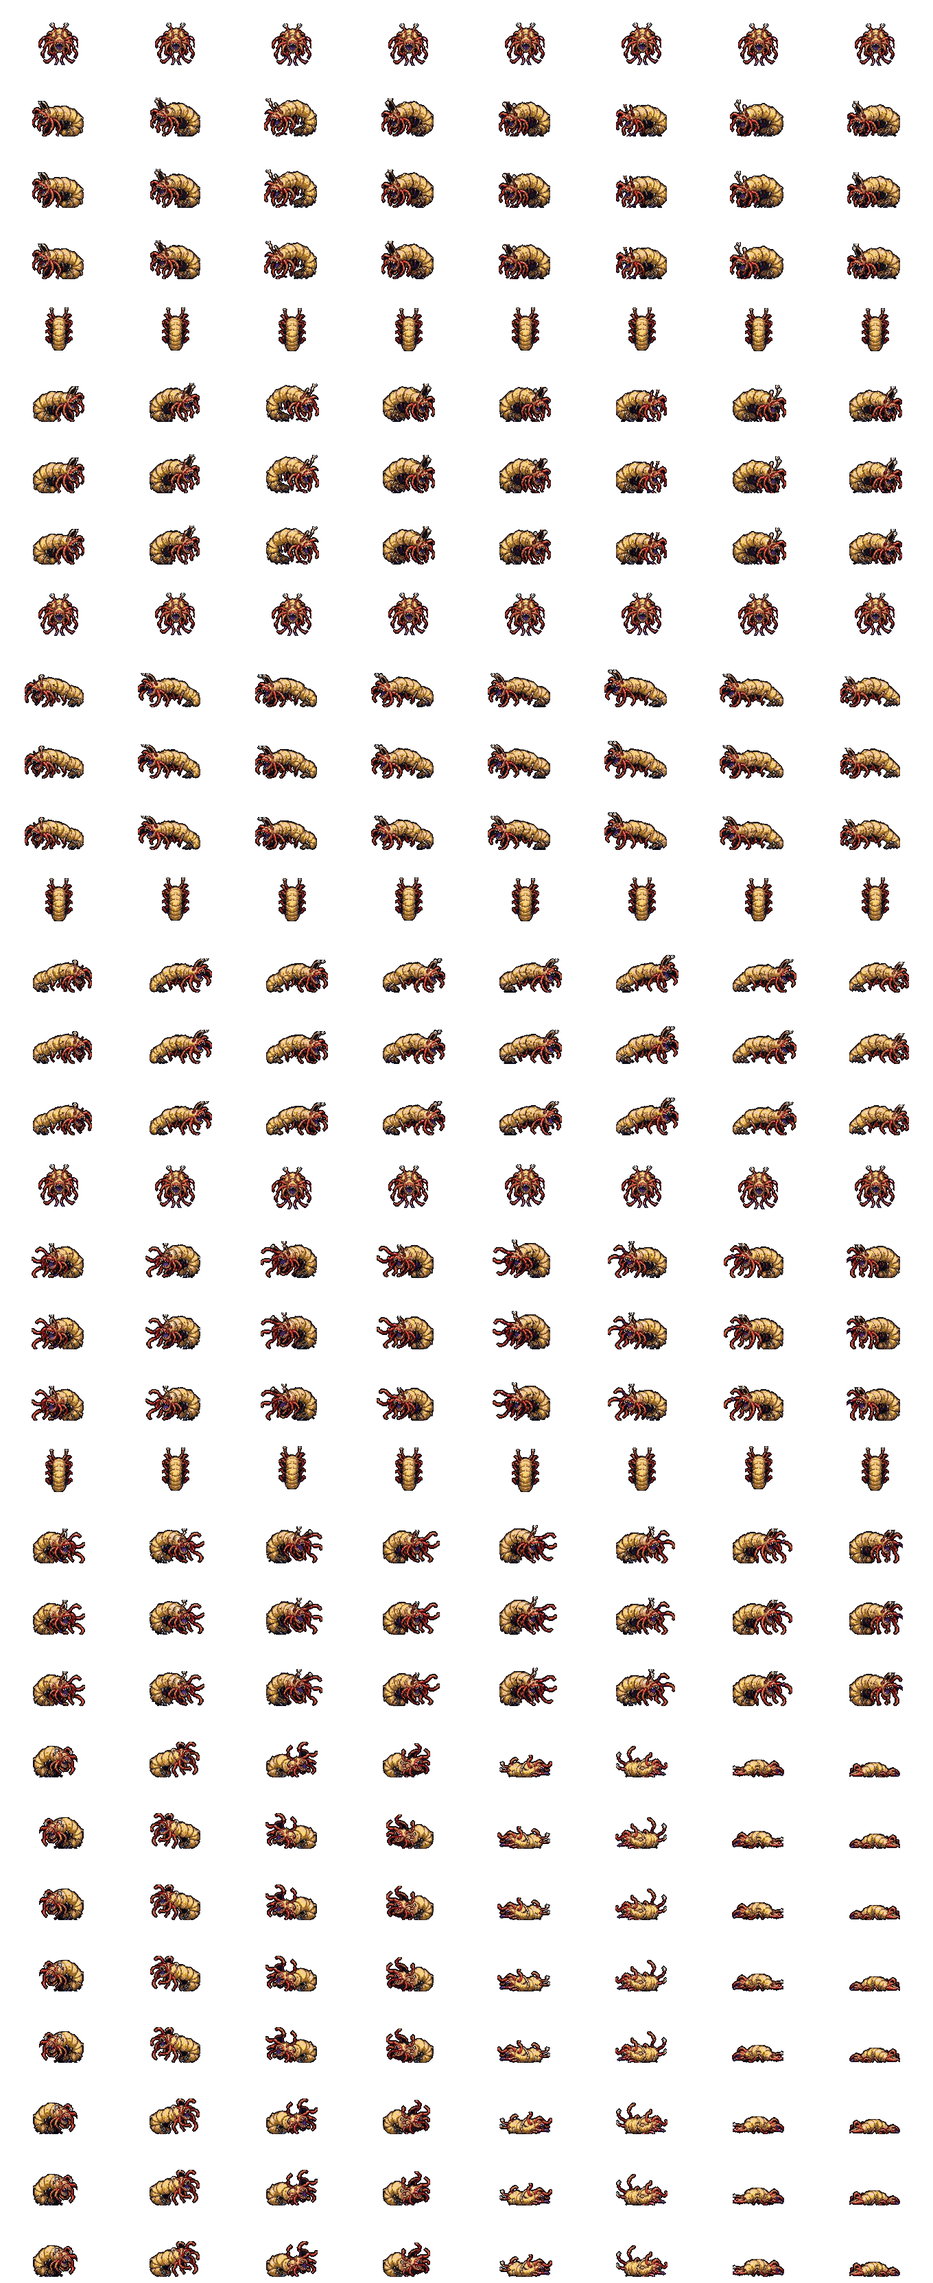
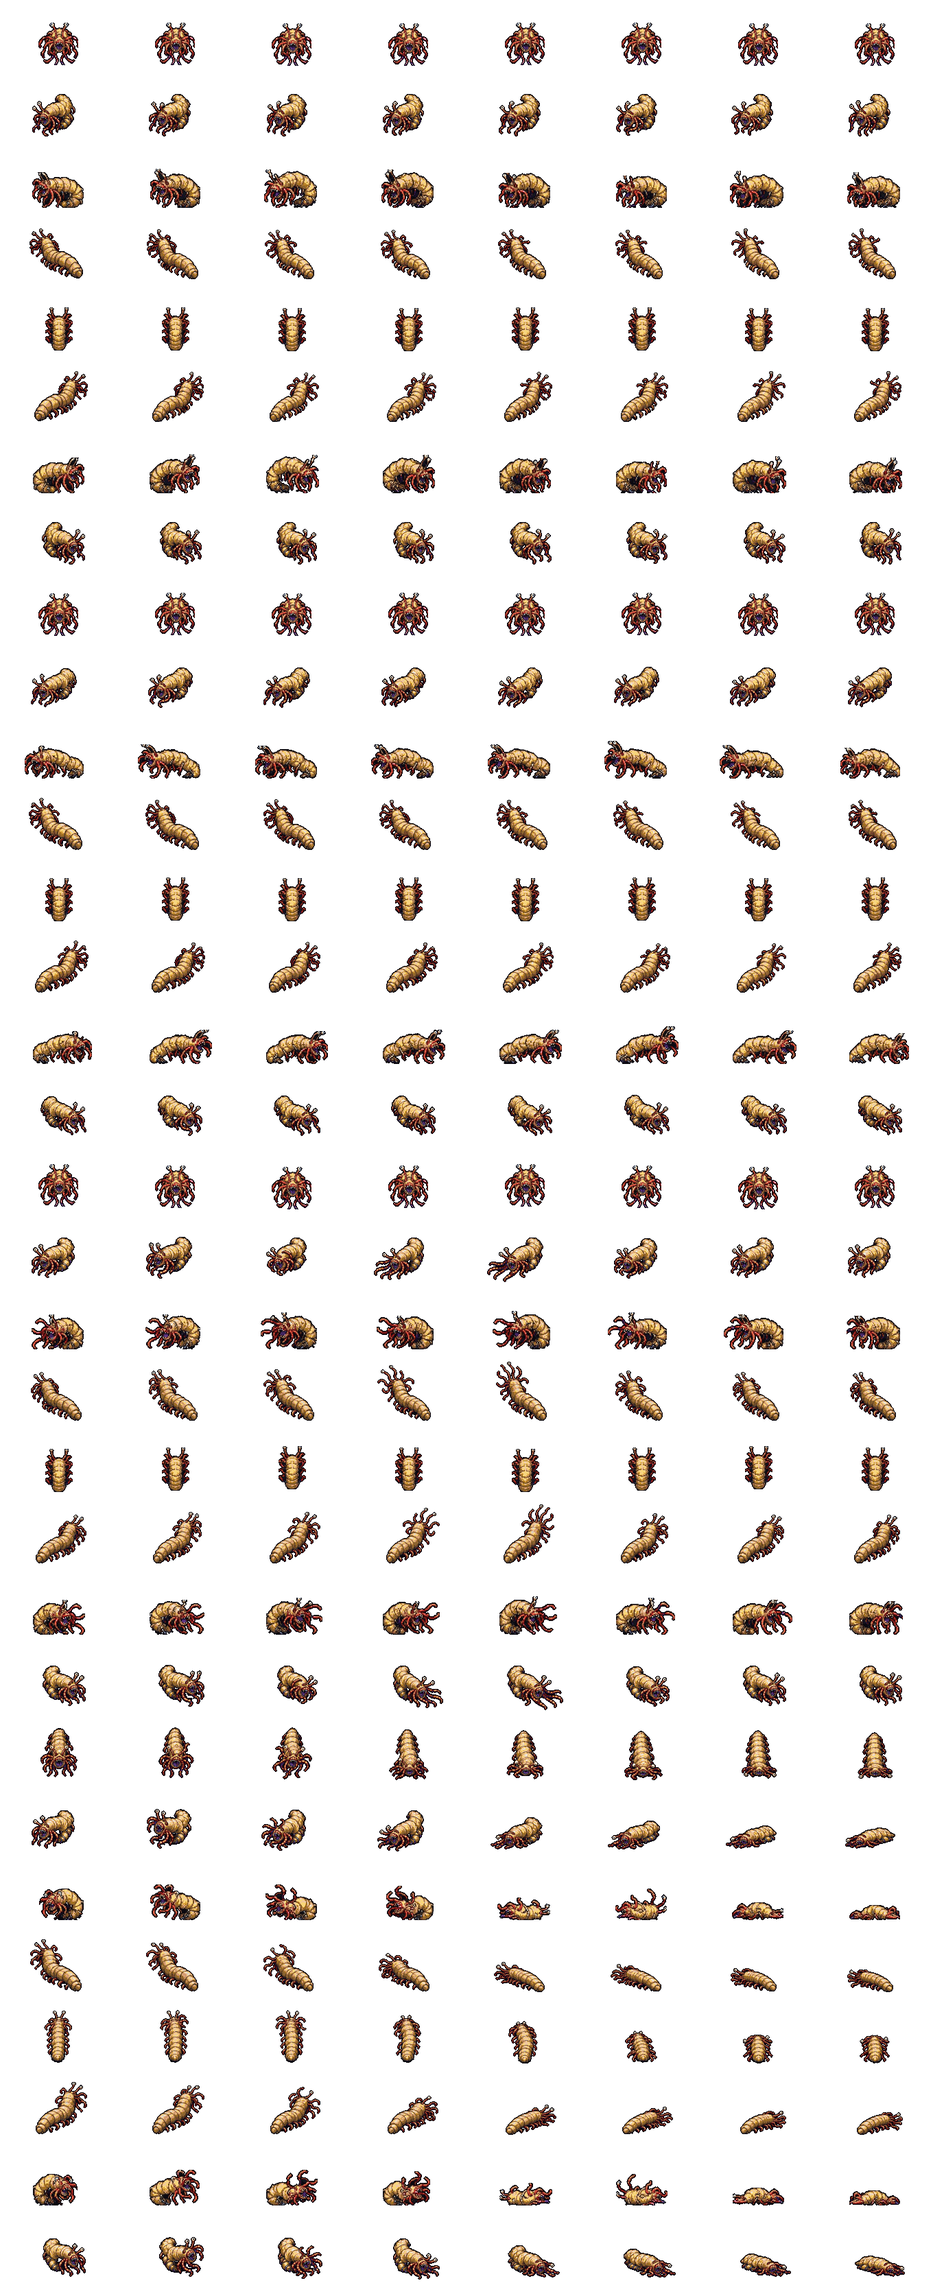
The crawler in all eight facings: the art desk's ART-44 cut onto crawler_p2 (SE/SW and NE/NW every row, S and N their own fall)
ART-44's six pages (sorted out of Fresh to deep16/_src/crawler/ART-44/) cut by their own row and number labels in
tools/crawler-sheet.py: H1 SE Idle, Crawl, Tentacles, Fall; H2 NE the same; H3 S Fall; H5 N Fall. Idle -> idle, Crawl ->
walk, Tentacles -> attack, Fall -> hurt; SW and NW mirrored by the 10-14 facings ruling. E and W keep the side rows and S and
N the panel's stills for idle, walk and attack, byte for byte. SE and NE at one scale (3.3 page px a game px, page 2s by
their standing frame), S 4.3 and N 4.5 to the stills they turn from; toned body and tentacles apart to the side rows' snapped
colours; each frame's body centroid on the anchor column, its foot as the page draws it. The show plays every row twice.

Griz, 2026-10-21, to the lanes desk: "Spin a single monster cutter instance up (choose your own from Fresh!) and have one
going after another finishes until we approach session limit (90%)".

diff --git a/deep16/data/sprites.js b/deep16/data/sprites.js
@@ -2500,7 +2500,7 @@
 }
 },
 "crawler_p2": {
-"image": "art/crawler_p2.png?v=1dfc6cb369",
+"image": "art/crawler_p2.png?v=e25d2741fb",
 "fw": 170,
 "fh": 104,
 "ax": 85,
@@ -2544,7 +2544,7 @@
 "fps": 8
 }
 },
-"source": "generated by Griz with Grok (2026-09-27), cut and snapped by tools/crawler-sheet.py (the top view stands for N)"
+"source": "generated by Griz with Grok (2026-09-27; the side rows, and the panel's front and top views for S and N) and the art desk (2026-10-17, ART-44: the SE and NE views of every row, the front and back of the fall), cut and snapped by tools/crawler-sheet.py"
 },
 "crewman_p1": {
 "image": "art/crewman_p1.png?v=9336a5853e",

diff --git a/deep16/index.html b/deep16/index.html
@@ -77,7 +77,7 @@
 <script src="js/art.js?v=e1ce4cf012"></script>
 <script src="data/cavern.js?v=647c1a184a"></script>
 <script src="data/maps.js?v=971b4fe9e6"></script>
-<script src="data/sprites.js?v=46f1ff8c13"></script>
+<script src="data/sprites.js?v=7669d1919d"></script>
 <script src="js/sprites.js?v=132505c283"></script>
 <script src="js/save.js?v=1191d6f29a"></script>
 <script src="data/spells.js?v=b819b6e987"></script>

diff --git a/tools/crawler-sheet.py b/tools/crawler-sheet.py
@@ -1,26 +1,48 @@
 """DEEP16 pipeline 2 (generated art): Griz's generated carrion-crawler sheet -> a palette sprite sheet.
 
-    python tools/crawler-sheet.py
+    python tools/crawler-sheet.py            # deep16/art/crawler_p2.png + .json
+    python tools/crawler-sheet.py check      # dev/visions/crawler/: each ART-44 page's cut (a colour a frame), every facing of every row, a lineup
 
 Source: deep16/_src/crawler_grok_1.webp (Griz, 2026-09-27, made with Grok): one page in one hand -- a portrait, three
 views (side, front, top), and rows seen from the side facing right: idle 8, crawl 8, tentacles 8, bite 5, hurt 4, death 8.
 Its colours stand as drawn (pale yellow body, red tentacles), snapped to the palette; no regrade (the chuul's was).
-Facings: the front view takes S; the top view takes N (Griz, 09-27: "build it with the top view for N": the sheet has no
+Facings (until ART-44, below): the front view takes S; the top view takes N (Griz, 09-27: "build it with the top view for N": the sheet has no
 rear view); the side rows take the other six (mirrored for the west side). The death row plays as `hurt` (the engine
 plays it once when a creature goes down), as the chuul's does. The bite and the flinch rows are cut but not yet played.
 Boxes from a component pass over the sheet (warm pixels against the navy ground).
+ART-44 (10-21): the art desk drew the views the sheet lacked (RULED 10-14, five drawn views: S, SE, E, NE, N; SE mirrors to SW, E
+to W, NE to NW), six pages in deep16/_src/crawler/ART-44/ (sorted out of Fresh by its ART-44-sort.py; the desk's papers in
+_src/art-desk/received-2026-10-21-ART-44-crawler-FINAL-REPAIRED/), each cut by its own row and number labels (tools/sheetrows.py):
+    H1P1  ART-44_HEAD-1_PAGE-1.png  SE: Idle 8, Crawl 8
+    H1P2  ART-44_HEAD-1_PAGE-2.png  SE: Tentacles 8, Fall 8
+    H2P1  ART-44_HEAD-2_PAGE-1.png  NE: Idle 8, Crawl 8
+    H2P2  ART-44_HEAD-2_PAGE-2.png  NE: Tentacles 8, Fall 8
+    H3P1  ART-44_HEAD-3_PAGE-1.png  S:  Fall 8
+    H5P1  ART-44_HEAD-5_PAGE-1.png  N:  Fall 8
+Idle plays as `idle`, Crawl as `walk`, Tentacles as `attack`, Fall as `hurt`. SE and NE draw every row from their own view (SW and NW
+mirrored); S and N keep the panel's stills for idle, walk and attack and fall in their own view; E and W keep the side rows. Each page is
+scaled to the creature as committed (K44) and toned to the side rows' colours, body and tentacles apart (TONE44); each frame stands with its
+body's middle (the gold segments' centroid) on the anchor column and its row's ground from the page (each frame's foot as drawn against
+its row's first).
 """
-import os, json
+import os, sys, json, subprocess
 import numpy as np
-from PIL import Image
+from PIL import Image, ImageDraw
 from scipy import ndimage
 
 ROOT = os.path.dirname(os.path.dirname(os.path.abspath(__file__)))
 import importlib.util
-spec = importlib.util.spec_from_file_location('pix', os.path.join(ROOT, 'tools', 'pixelate.py'))
-pix = importlib.util.module_from_spec(spec); spec.loader.exec_module(pix)
+def _load(name, path):
+    spec = importlib.util.spec_from_file_location(name, path); mod = importlib.util.module_from_spec(spec); spec.loader.exec_module(mod)
+    return mod
+pix = _load('pix', os.path.join(ROOT, 'tools', 'pixelate.py'))
+SR = _load('sheetrows', os.path.join(ROOT, 'tools', 'sheetrows.py'))
 
-SHEET = np.asarray(Image.open(os.path.join(ROOT, 'deep16', '_src', 'crawler_grok_1.webp')).convert('RGB')).astype(np.int32)
+SRC = os.path.join(ROOT, 'deep16', '_src')                 # the sheets live in the main checkout (_src is not in git): a worktree reads them there
+if not os.path.exists(os.path.join(SRC, 'crawler_grok_1.webp')):
+    _common = subprocess.run(['git', '-C', ROOT, 'rev-parse', '--git-common-dir'], capture_output=True, text=True).stdout.strip()
+    SRC = os.path.join(os.path.dirname(os.path.abspath(os.path.join(ROOT, _common))), 'deep16', '_src')
+SHEET = np.asarray(Image.open(os.path.join(SRC, 'crawler_grok_1.webp')).convert('RGB')).astype(np.int32)
 BG = np.array([12, 20, 31])
 FW, FH, AX, AY = 170, 104, 85, 94
 SIDE_H = 50                  # Large, and low: the side rows stand ~50 px (the humans are 56 tall; it is 3-4 ft high, 9 long)
@@ -34,6 +56,46 @@ ATTACK = [(43, 573, 157, 647), (200, 576, 319, 648), (354, 569, 476, 646), (516,
           (836, 572, 966, 651), (995, 577, 1126, 651), (1153, 580, 1269, 650)]
 DEATH = [(55, 971, 149, 1037), (220, 964, 329, 1042), (383, 964, 494, 1042), (553, 968, 656, 1042), (710, 993, 823, 1042),
          (863, 974, 976, 1042), (1014, 1003, 1128, 1040), (1167, 1007, 1278, 1039)]
+
+# ART-44 (10-21): the art desk's six pages. Per page: text boxes (each row's name above it, and each number strip the width of the page: a
+# number lies wholly inside one, a tentacle tip that dips into it does not), and the rows -- (the page's row name, band x0 y0 x1 y1, its
+# number strip y0 y1, the numbers). Read off the pages; H1P2's Tentacles strip starts in the numbers' lower half (a tentacle's highlight
+# above them read as a ninth label).
+ART44 = os.path.join(SRC, 'crawler', 'ART-44')
+N8 = [str(i + 1) for i in range(8)]
+W1, W2 = 1774, 1983                                      # the pages' widths (H1P1, H2P1, H2P2; H1P2, H3P1, H5P1)
+PAGES = {
+    'H1P1': dict(file='ART-44_HEAD-1_PAGE-1.png', text=[(20, 140, 170, 178), (0, 398, W1, 428), (20, 482, 170, 518), (0, 726, W1, 756)],
+                 rows=[('idle', (0, 178, W1, 428), (400, 426), N8), ('crawl', (0, 518, W1, 756), (728, 754), N8)]),
+    'H1P2': dict(file='ART-44_HEAD-1_PAGE-2.png', text=[(20, 112, 250, 150), (0, 378, W2, 408), (20, 446, 120, 484), (0, 709, W2, 741)],
+                 rows=[('tentacles', (0, 150, W2, 408), (392, 405), N8), ('fall', (0, 484, W2, 741), (711, 739), N8)]),
+    'H2P1': dict(file='ART-44_HEAD-2_PAGE-1.png', text=[(20, 140, 112, 176), (0, 398, W1, 428), (20, 482, 140, 516), (0, 769, W1, 800)],
+                 rows=[('idle', (0, 130, W1, 428), (400, 426), N8), ('crawl', (0, 516, W1, 800), (771, 797), N8)]),
+    'H2P2': dict(file='ART-44_HEAD-2_PAGE-2.png', text=[(20, 136, 202, 173), (0, 409, W1, 440), (20, 480, 104, 514), (0, 771, W1, 802)],
+                 rows=[('tentacles', (0, 112, W1, 440), (411, 438), N8), ('fall', (0, 514, W1, 802), (773, 800), N8)]),
+    'H3P1': dict(file='ART-44_HEAD-3_PAGE-1.png', text=[(20, 186, 110, 222), (0, 567, W2, 603)],
+                 rows=[('fall', (0, 222, W2, 603), (569, 601), N8)]),
+    'H5P1': dict(file='ART-44_HEAD-5_PAGE-1.png', text=[(20, 176, 116, 214), (0, 585, W2, 623)],
+                 rows=[('fall', (0, 214, W2, 623), (587, 621), N8)]),
+}
+ENGINE = {'idle': 'idle', 'crawl': 'walk', 'tentacles': 'attack', 'fall': 'hurt'}     # the page's row -> the sheet's
+HEADS = {'SE': ('H1P1', 'H1P2'), 'NE': ('H2P1', 'H2P2'), 'S': ('H3P1',), 'N': ('H5P1',)}
+STILL = ('idle', 'crawl')                    # rows that stand still on their ground: its foot the row's median (the page's jitter is a
+                                             # pixel); the others (a lash that reaches down, a fall) from their first frame's foot
+# the scale, page px a game px: K44 below (set by eye on the lineup after the measures; see the ENGINE-RETURN of 10-21 for the table)
+K44 = {'H1P1': 3.3, 'H2P1': 3.3, 'H3P1': 4.3, 'H5P1': 4.5}
+K44.update({'H1P2': K44['H1P1'] * 1.04, 'H2P2': K44['H2P1'] * 1.01})
+# the colour, page by page and material by material, to the side rows' (his look's): the art desk drew a brighter, stronger crawler, its
+# tentacles most of all, and its pale gold snapped to the palette's peach-tan ramp where the side rows' lands on the gold one. The gold body
+# (hue 15-75) and the red tentacles (hue 330-15) apart; the maw's purple, the eyes, the teeth and the outline are left as drawn. The hue is
+# turned to the side rows' median (TONE_AT, from the grok sheet's rows and panel; TONE_HUE, each page's, both of the pixels over 0.2
+# saturation). The saturation and value factors (TONE44: body s, body v, red s, red v) are fitted on the snapped colours: each page's frames
+# cut, toned and snapped on a grid of factors, and the one whose colours' shares come nearest the side rows' (E in every row) kept -- the
+# medians' own factors (body s 0.77-0.86, v 0.78-0.90) snapped the body to the peach ramp (10-21; the trials in the ENGINE-RETURN of 10-21f).
+TONE_AT = {'body': 35.6, 'red': 358.3}
+TONE_HUE = {'H1P1': (35.5, 355.5), 'H1P2': (34.2, 355.9), 'H2P1': (35.5, 355.2), 'H2P2': (33.7, 352.3), 'H3P1': (35.1, 354.3), 'H5P1': (33.6, 354.5)}
+TONE44 = {'H1P1': (0.90, 1.00, 0.90, 0.70), 'H1P2': (0.85, 0.95, 0.80, 0.70), 'H2P1': (0.85, 0.95, 1.00, 0.65),
+          'H2P2': (0.80, 0.90, 0.80, 0.65), 'H3P1': (0.85, 0.95, 0.90, 0.60), 'H5P1': (0.80, 0.90, 0.80, 0.65)}
 
 
 def cut(box, pad=5):
@@ -73,9 +135,101 @@ def left_x(a):
     return float(np.where(a[..., 3].any(axis=0))[0][0])
 
 
-def main():
+def hsv(rgb):
+    mx, mn = rgb.max(-1), rgb.min(-1)
+    d = np.maximum(mx - mn, 1e-6)
+    r, g, b = rgb[..., 0], rgb[..., 1], rgb[..., 2]
+    h = np.where(mx == r, ((g - b) / d) % 6, np.where(mx == g, (b - r) / d + 2, (r - g) / d + 4)) * 60
+    s = np.where(mx > 0, (mx - mn) / np.maximum(mx, 1e-6), 0)
+    return h, s, mx
+
+
+def toned(im, L):
+    """an RGBA cut in HSV, material by material: the gold body and the red tentacles each turned to the side rows' hue and scaled (TONE44)"""
+    a = np.asarray(im).astype(float)
+    h, s, v = hsv(a[..., :3] / 255.0)
+    bs, bv, rs, rv = TONE44[L]
+    sels = (('body', (s > 0.2) & (h >= 15) & (h < 75), TONE_HUE[L][0], bs, bv), ('red', (s > 0.2) & ((h >= 330) | (h < 15)), TONE_HUE[L][1], rs, rv))
+    for mat, sel, ph, fs, fv in sels:
+        dh = (TONE_AT[mat] - ph + 180) % 360 - 180
+        h = np.where(sel, (h + dh) % 360, h)
+        s = np.where(sel, np.clip(s * fs, 0, 1), s)
+        v = np.where(sel, np.clip(v * fv, 0, 1), v)
+    cc = v * s
+    x = cc * (1 - np.abs((h / 60) % 2 - 1))
+    sec = (h // 60).astype(int) % 6
+    z = np.zeros_like(cc)
+    out = np.select([sec[..., None] == k for k in range(6)],
+                    [np.stack(p, -1) for p in ((cc, x, z), (x, cc, z), (z, cc, x), (z, x, cc), (x, z, cc), (cc, z, x))]) + (v - cc)[..., None]
+    a[..., :3] = np.clip(out * 255, 0, 255)
+    return Image.fromarray(a.round().astype(np.uint8), 'RGBA')
+
+
+def body_x(im):
+    """the gold segments' centroid column in a page cut (the tentacles lash and the eye stalks bob; the body holds)"""
+    a = np.asarray(im).astype(float)
+    h, s, v = hsv(a[..., :3] / 255.0)
+    m = (a[..., 3] > 0) & (s > 0.2) & (h >= 15) & (h < 75)
+    return float(np.where(m)[1].mean())
+
+
+def fit(img, scale):
+    """one scale: premultiplied box down, a 1-px margin for the outline, snapped to the palette."""
+    w, h = img.size
+    img = img.convert('RGBa').resize((max(1, round(w / scale)), max(1, round(h / scale))), Image.BOX).convert('RGBA')
+    pad = Image.new('RGBA', (img.width + 2, img.height + 2), (0, 0, 0, 0))
+    pad.paste(img, (1, 1))
+    return pix.pixelate(pad, 1, do_lift=False)
+
+
+CLIPPED = []
+
+
+def place44(a, x_ref, tag='', up=0):
+    """a fitted cut onto the frame: x_ref on AX, its lowest opaque row (the outline's) on AY -- or `up` px above it (below, if negative)"""
+    out = np.zeros((FH, FW, 4), dtype=np.uint8)
+    rr = np.where(a[..., 3].any(axis=1))[0]; cc = np.where(a[..., 3].any(axis=0))[0]
+    ox, oy = int(round(AX - x_ref)), AY - rr[-1] - up
+    if ox + cc[0] < 0 or ox + cc[-1] >= FW or oy + rr[0] < 0 or oy + rr[-1] >= FH:
+        CLIPPED.append((tag, ox + cc[0], ox + cc[-1], oy + rr[0], oy + rr[-1]))
+    h, w = a.shape[:2]
+    y0, x0 = max(0, oy), max(0, ox)
+    y1, x1 = min(FH, oy + h), min(FW, ox + w)
+    out[y0:y1, x0:x1] = a[y0 - oy:y1 - oy, x0 - ox:x1 - ox]
+    return out
+
+
+def mirror44(seq):
+    """west of the drawn east: a flip, then a pixel back so the anchor column stays put (FW is even)"""
+    return [np.roll(fr[:, ::-1], 1, axis=1).copy() for fr in seq]
+
+
+def heads(check=False):
+    """ART-44's pages -> {view: {sheet row: [frame, ...]}}: each frame at its page's scale and tone, its body's centroid on AX, its foot
+    off the row's ground by what the page draws (`STILL`)."""
+    views = {v: {} for v in HEADS}
+    for v, pages in HEADS.items():
+        for L in pages:
+            s = PAGES[L]
+            over = [] if check else None
+            cuts = SR.cut_sheet(os.path.join(ART44, s['file']), s, overlay=over, tag=L)
+            if check:
+                d = os.path.join(ROOT, 'dev', 'visions', 'crawler'); os.makedirs(d, exist_ok=True)
+                over[0].save(os.path.join(d, 'cut-%s.png' % L))
+            k = K44[L]
+            for row, frs in cuts.items():
+                floor = float(np.median([b[3] for _, _, b in frs])) if row in STILL else frs[0][2][3]
+                seq = []
+                for nm, im, box in frs:
+                    a = fit(toned(im, L), k)
+                    a = a[:np.where(a[..., 3].any(axis=1))[0][-1] + 1]            # (its lowest opaque row: the outline under its foot)
+                    seq.append(place44(a, 1 + body_x(im) / k, '%s-%s%s' % (L, row, nm), up=int(round((floor - box[3]) / k))))
+                views[v][ENGINE[row]] = seq
+    return views
+
+
+def build(check=False):
     s_rows = np.mean([b[3] - b[1] for b in IDLE]) / SIDE_H
-    s_panel = s_rows * (SIDE_V[3] - SIDE_V[1]) / np.mean([b[3] - b[1] for b in IDLE])   # the panel draws a little bigger
     s_panel = (SIDE_V[3] - SIDE_V[1]) / SIDE_H
     centre = lambda a: np.where(a[..., 3].any(axis=0))[0].mean()
     front, top = figure(FRONT_V, s_panel), figure(TOP_V, s_panel)
@@ -92,32 +246,71 @@ def main():
     idle_l, walk_l, atk_l, death_l = mirror(idle_r), mirror(walk_r), mirror(atk_r), mirror(death_r)
 
     shift = lambda fr, dx, dy: np.roll(np.roll(fr, dx, axis=1), dy, axis=0)
-    frames = {'idle': [], 'walk': [], 'attack': [], 'hurt': []}
-    for f in range(8):                                   # facings S, SW, W, NW, N, NE, E, SE
-        if f in (0, 4):
-            b = fS if f == 0 else fN
-            frames['idle'].append([b, b, shift(b, 0, 1), shift(b, 0, 1)])
-            frames['walk'].append([shift(b, 0, -(i % 2)) for i in range(8)])
-            lunge = 2 if f == 0 else -2
-            frames['attack'].append([b, shift(b, 0, lunge), shift(b, 0, 2 * lunge), shift(b, 0, lunge)])
-            frames['hurt'].append(death_r if f == 0 else death_l)
-        elif f in (5, 6, 7):
-            frames['idle'].append(idle_r); frames['walk'].append(walk_r); frames['attack'].append(atk_r); frames['hurt'].append(death_r)
-        else:
-            frames['idle'].append(idle_l); frames['walk'].append(walk_l); frames['attack'].append(atk_l); frames['hurt'].append(death_l)
+    hd = heads(check)                                    # ART-44: SE and NE (every row), S and N (the fall)
+    side_r = {'idle': idle_r, 'walk': walk_r, 'attack': atk_r, 'hurt': death_r}
+    side_l = {'idle': idle_l, 'walk': walk_l, 'attack': atk_l, 'hurt': death_l}
+    still = lambda b, lunge: {'idle': [b, b, shift(b, 0, 1), shift(b, 0, 1)], 'walk': [shift(b, 0, -(i % 2)) for i in range(8)],
+                              'attack': [b, shift(b, 0, lunge), shift(b, 0, 2 * lunge), shift(b, 0, lunge)]}
+    front_v = {**still(fS, 2), **hd['S']}
+    back_v = {**still(fN, -2), **hd['N']}
+    # facings S, SW, W, NW, N, NE, E, SE (deep16/js/sprites.js S.FACINGS). RULED 10-14, five drawn views: S, SE (SW mirrored), E (W
+    # mirrored), NE (NW mirrored), N. S and N keep the panel's stills, bobbed, for idle, walk and attack (ART-44 drew them only the fall)
+    per = [front_v, {r: mirror44(fs) for r, fs in hd['SE'].items()}, side_l, {r: mirror44(fs) for r, fs in hd['NE'].items()},
+           back_v, hd['NE'], side_r, hd['SE']]
+    frames = {r: [p[r] for p in per] for r in ('idle', 'walk', 'attack', 'hurt')}
     # (a row's frame count must match across facings: the front and top views fill theirs out)
     n = {k: max(len(r) for r in v) for k, v in frames.items()}
     for k, rows in frames.items():
         for i, r in enumerate(rows):
             while len(r) < n[k]: r = r + r[:n[k] - len(r)]
             rows[i] = r[:n[k]]
+    for t in CLIPPED:
+        print('  CLIPPED', t)
+    return frames
+
+
+def write(frames):
     pix.write_sheet('crawler_p2', frames, FW, FH, AX, AY, pix.top_of(frames['idle'][0] + frames['idle'][6], AY))
     meta_p = os.path.join(ROOT, 'deep16', 'art', 'crawler_p2.json')
     meta = json.load(open(meta_p))
     meta['anims']['idle']['fps'] = 5; meta['anims']['walk']['fps'] = 10; meta['anims']['attack']['fps'] = 10; meta['anims']['hurt']['fps'] = 8
-    meta['source'] = 'generated by Griz with Grok (2026-09-27), cut and snapped by tools/crawler-sheet.py (the top view stands for N)'
+    meta['source'] = ('generated by Griz with Grok (2026-09-27; the side rows, and the panel\'s front and top views for S and N) and the art desk '
+                      '(2026-10-17, ART-44: the SE and NE views of every row, the front and back of the fall), cut and snapped by tools/crawler-sheet.py')
     json.dump(meta, open(meta_p, 'w'), indent=1)
 
 
+FN = ['S', 'SW', 'W', 'NW', 'N', 'NE', 'E', 'SE']
+
+
+def facings(frames):
+    """dev/visions/crawler/facings-<row>.png: every facing of every row, S SW W NW N NE E SE top to bottom, 2x on a grey floor (the foot's
+    line drawn), and lineup.png: idle frame 1 in all eight facings and the fall's last, 4x"""
+    d = os.path.join(ROOT, 'dev', 'visions', 'crawler'); os.makedirs(d, exist_ok=True)
+    for name, per in frames.items():
+        n = len(per[0])
+        cv = Image.new('RGBA', (FW * n + 4 * (n + 1), FH * 8), (70, 74, 70, 255))
+        dr = ImageDraw.Draw(cv)
+        for f in range(8):
+            dr.line([(0, f * FH + AY + 1), (cv.width, f * FH + AY + 1)], fill=(110, 114, 110, 255))
+            dr.text((2, f * FH + 2), FN[f], fill=(255, 255, 255, 255))
+            for i, fr in enumerate(per[f]):
+                cv.alpha_composite(Image.fromarray(fr, 'RGBA'), (4 + i * (FW + 4), f * FH))
+        cv.resize((cv.width * 2, cv.height * 2), Image.NEAREST).save(os.path.join(d, 'facings-%s.png' % name))
+    for row, i in (('idle', 0), ('walk', 0), ('attack', 4), ('hurt', 7)):
+        cv = Image.new('RGBA', (FW * 8, FH), (70, 74, 70, 255))
+        dr = ImageDraw.Draw(cv)
+        dr.line([(0, AY + 1), (cv.width, AY + 1)], fill=(200, 60, 60, 255))
+        for f in range(8):
+            cv.alpha_composite(Image.fromarray(frames[row][f][i], 'RGBA'), (f * FW, 0))
+            dr.text((f * FW + 2, 2), FN[f], fill=(255, 255, 255, 255))
+        cv.resize((cv.width * 2, cv.height * 2), Image.NEAREST).save(os.path.join(d, 'lineup-%s.png' % row))
+    print('  wrote', d)
+
+
 if __name__ == '__main__':
-    main()
+    arg = sys.argv[1] if len(sys.argv) > 1 else ''
+    fr = build(check=arg == 'check')
+    if arg == 'check':                                   # the cut overlays, every facing of every row, the lineups (dev/visions/crawler/)
+        facings(fr)
+    else:
+        write(fr)
